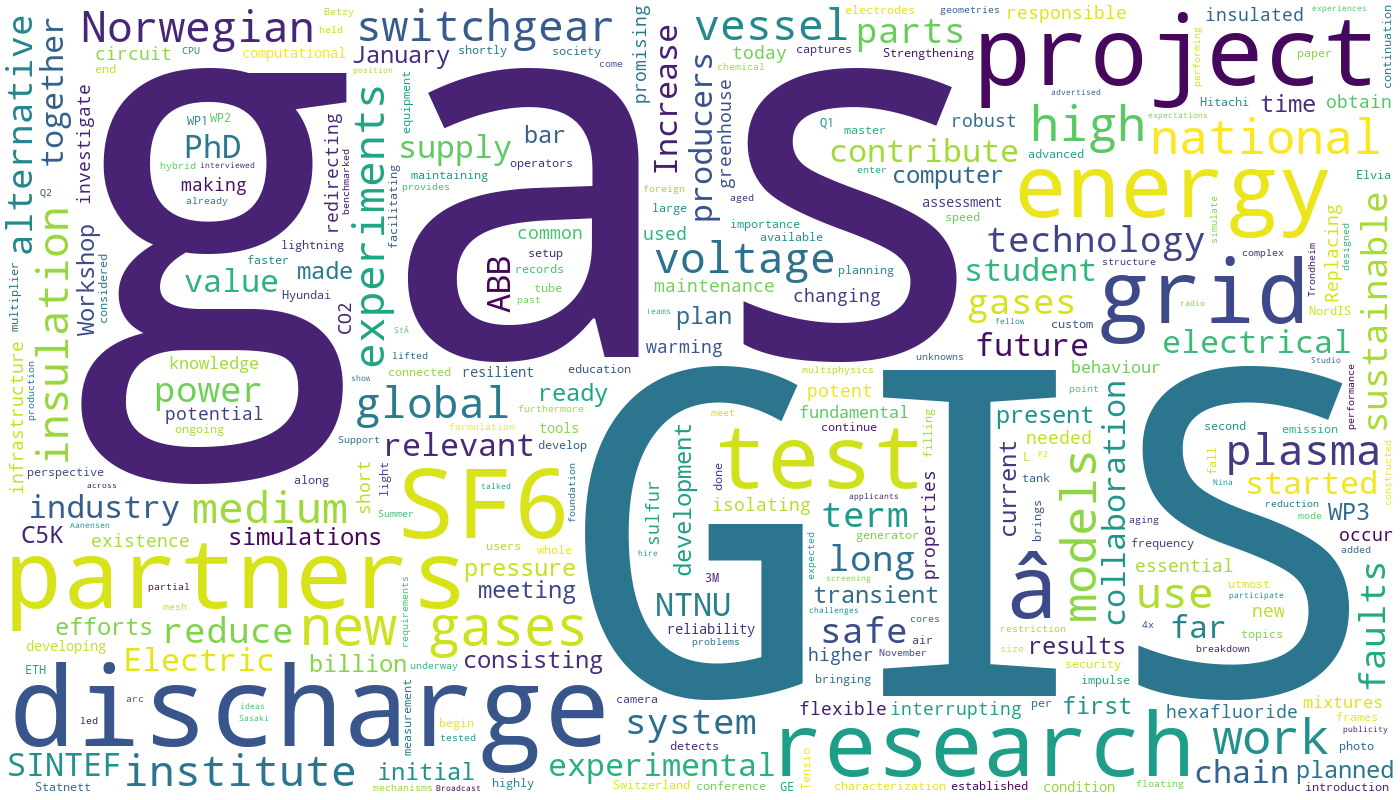
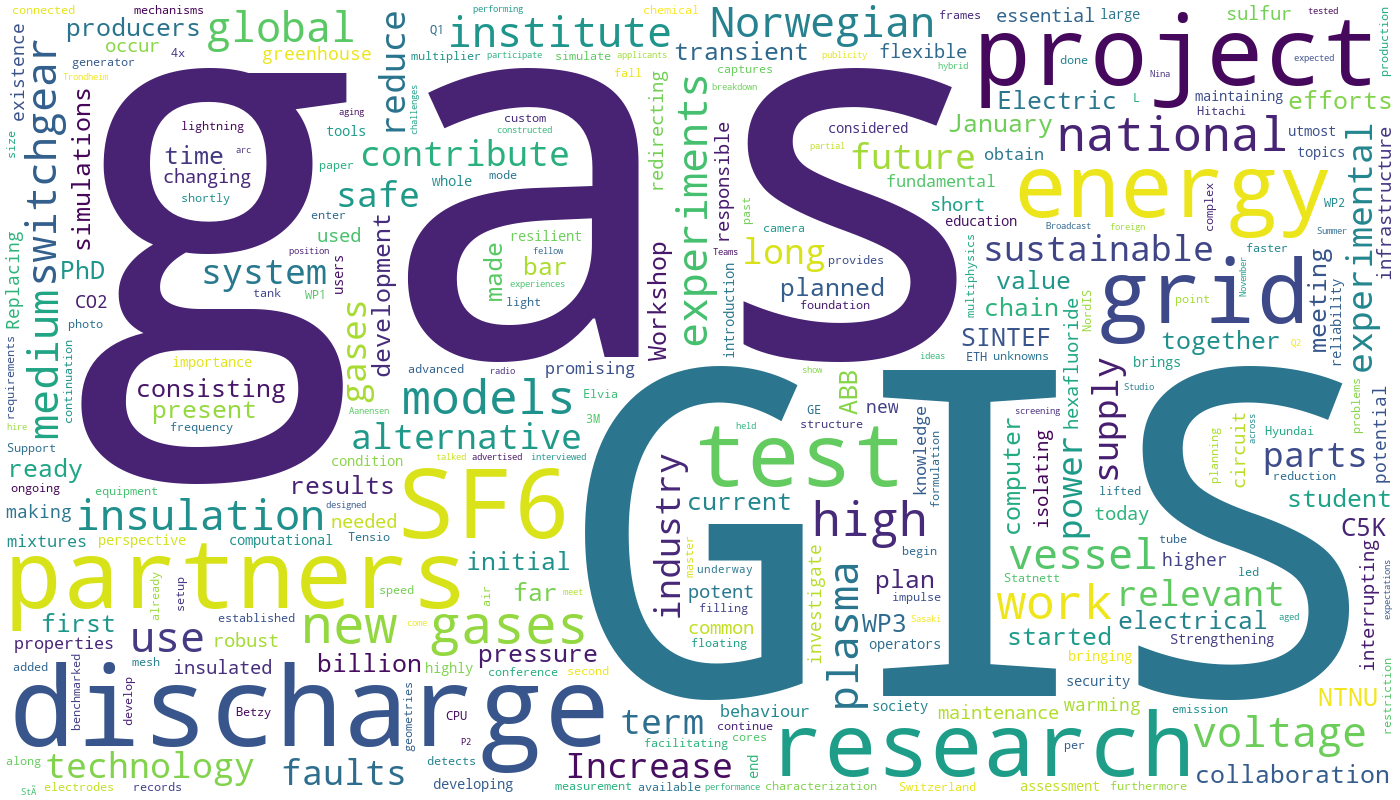
kan nå legge inn flere stopwords

diff --git a/examples/word_cloud.py b/examples/word_cloud.py
@@ -26,7 +26,7 @@ parser.add_argument('-bg', '--background', type=str, default='black',
 parser.add_argument('-w', '--maxword', type=int, default=1000,
                     help="Max word")
 
-parser.add_argument('-s', '--stopword', type=str, default='a',
+parser.add_argument('-s', '--stopword', nargs='+', default='a',
                     help="Stop words")
 
 
@@ -38,6 +38,7 @@ mask_file = args.mask
 bg = args.background
 max_word = args.maxword
 stop = args.stopword
+print(stop)
 
 
 
@@ -62,7 +63,9 @@ text = open(path.join(d, text_file)).read()
 
 # adding movie script specific stopwords
 stopwords = set(STOPWORDS)
-stopwords.add(stop)
+for i in stop:
+    print(i) 
+    stopwords.add(i)
 if mask_file:
     print(mask_file)
     mask = np.array(Image.open(path.join(d, mask_file)))
